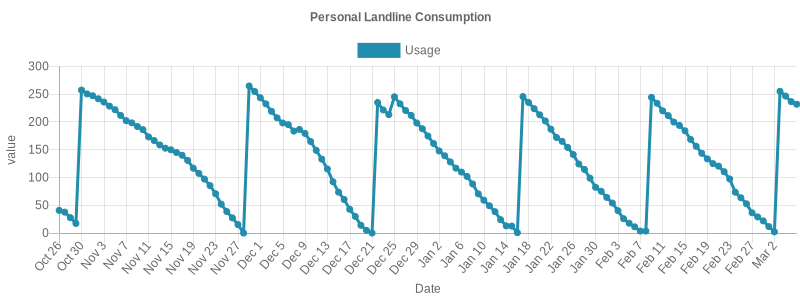
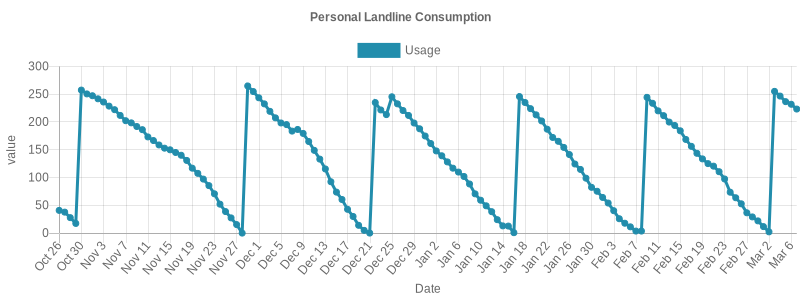
update logs

diff --git a/quota-logs/README.md b/quota-logs/README.md
@@ -131,3 +131,4 @@
 ## Mon Mar 04 2024 00:35:37 GMT+0200|246.6/260
 ## Tue Mar 05 2024 00:35:54 GMT+0200|236.56/250
 ## Wed Mar 06 2024 00:34:37 GMT+0200|231.88/250
+## Thu Mar 07 2024 00:35:13 GMT+0200|223.25/250
